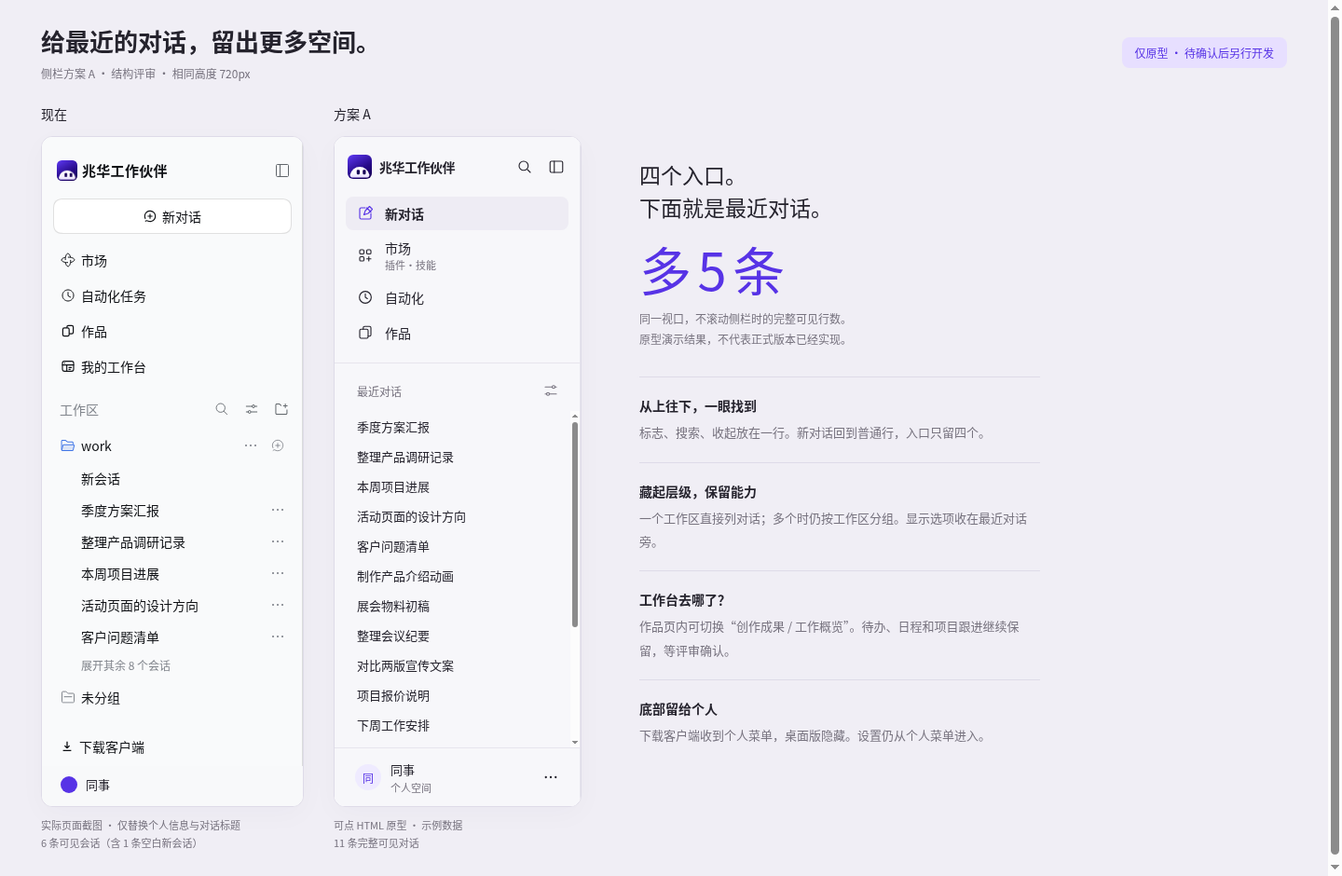
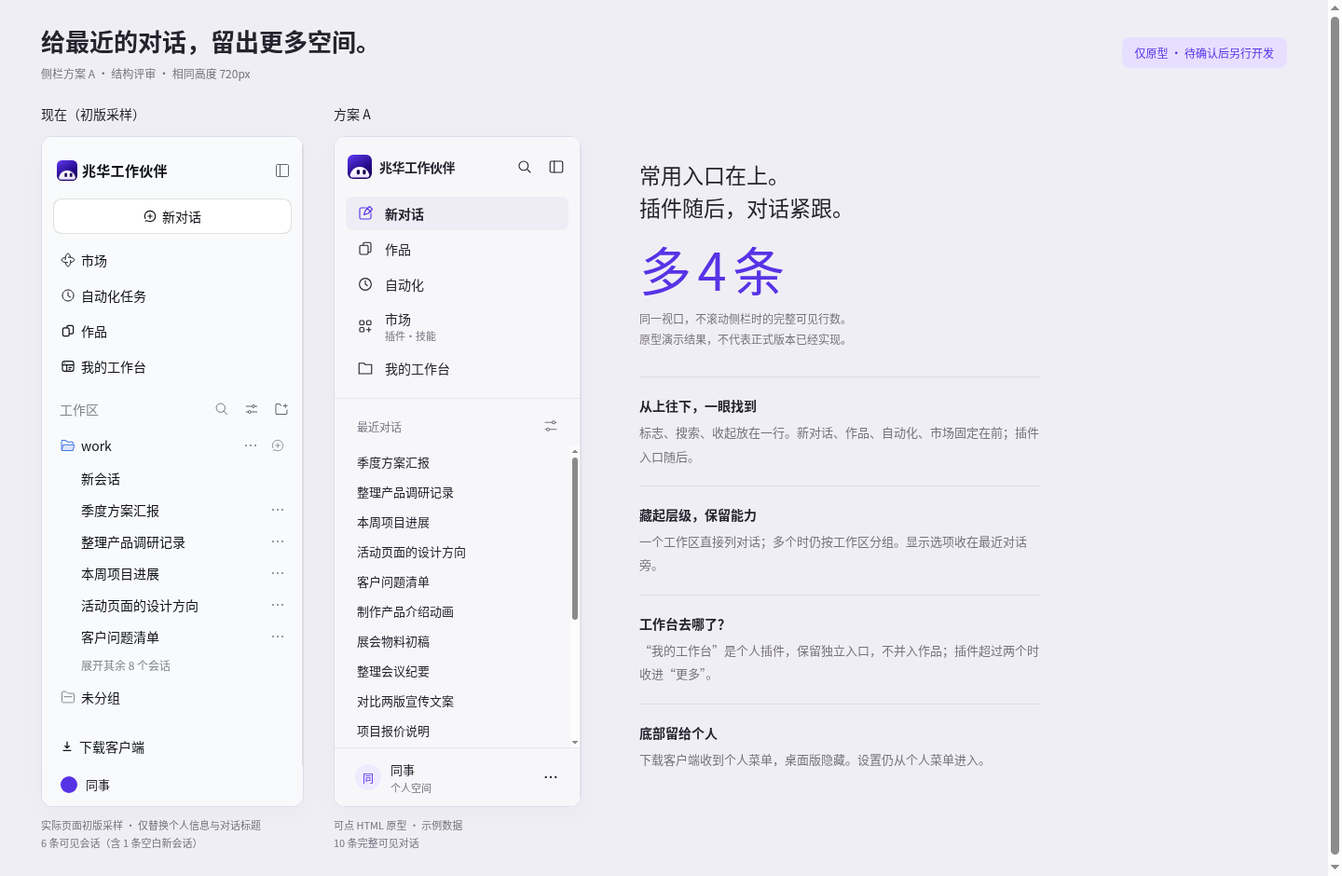
按已定顺序更新侧栏原型并独立展示插件入口

diff --git a/crysound/prototypes/sidebar-a/app.js b/crysound/prototypes/sidebar-a/app.js
@@ -20,11 +20,25 @@
   const hydrate = () => document.querySelectorAll('[data-icon]').forEach(el => { el.innerHTML = icon(el.dataset.icon); });
   const titles = ['季度方案汇报', '整理产品调研记录', '本周项目进展', '活动页面的设计方向', '客户问题清单', '制作产品介绍动画', '展会物料初稿', '整理会议纪要', '对比两版宣传文案', '项目报价说明', '下周工作安排', '产品演示脚本', '设计系统参考', '售后问题整理', '渠道沟通计划', '年度培训大纲', '测试报告摘要', '首页视觉探索'];
   const conversations = titles.map((title, id) => ({ id, title, workspace: id % 3 === 0 ? '产品项目' : '日常工作', archived: id === 17 }));
-  let page = 'new', activeId = null, worksTab = 'artifacts', toastTimer;
+  let page = 'new', activeId = null, toastTimer;
   const query = new URLSearchParams(location.search);
   $('#theme').value = query.get('theme') === 'dark' ? 'dark' : 'light';
   $('#shell').value = query.get('shell') === 'desktop' ? 'desktop' : 'web';
   $('#workspace-mode').value = query.get('workspaces') === 'multi' ? 'multi' : 'single';
+  const plugins = [
+    { id: 'workbench', label: '我的工作台', icon: 'folder' },
+    { id: 'references', label: '资料收藏', icon: 'works' },
+    { id: 'notes', label: '团队笔记', icon: 'new' },
+  ];
+  $('#plugin-count').value = ['0', '1', '2', '3'].includes(query.get('plugins')) ? query.get('plugins') : '1';
+  const installedPlugins = () => plugins.slice(0, Number($('#plugin-count').value));
+  function renderPlugins() {
+    const entries = installedPlugins();
+    const row = p => `<button class="nav-row" data-page="${p.id}" title="${p.label}">${icon(p.icon)}<span>${p.label}</span></button>`;
+    $('#plugin-entries').hidden = entries.length === 0;
+    $('#plugin-entries').innerHTML = entries.length > 2 ? `<button class="nav-row" id="plugins-more" title="更多插件入口" aria-haspopup="dialog">${icon('more')}<span>更多</span></button>` : entries.map(row).join('');
+    $('#plugin-menu').innerHTML = entries.map(row).join('');
+  }
   document.documentElement.dataset.theme = $('#theme').value;
   if (query.has('collapsed') && !matchMedia('(max-width:700px)').matches) document.body.classList.add('collapsed');
   const toast = (text) => { clearTimeout(toastTimer); $('#toast').textContent = text; $('#toast').hidden = false; toastTimer = setTimeout(() => { $('#toast').hidden = true; }, 3200); };
@@ -37,14 +51,16 @@
   function closeDrawer() { document.body.classList.remove('drawer-open'); $('.scrim').hidden = true; $('#sidebar').removeAttribute('role'); $('#sidebar').removeAttribute('aria-modal'); $('#sidebar').inert = matchMedia('(max-width:700px)').matches; }
   function openDrawer() { document.body.classList.remove('collapsed'); document.body.classList.add('drawer-open'); $('.scrim').hidden = false; $('#sidebar').inert = false; $('#sidebar').setAttribute('role', 'dialog'); $('#sidebar').setAttribute('aria-modal', 'true'); $('.search-trigger').focus(); }
   const home = () => `<section class="home"><div class="home-inner"><img class="hero-mark" src="../../brand/zp-mark.svg" alt=""><p class="eyebrow">一起，把想法变成成果</p><h1>今天，我们从哪里开始？</h1><p class="intro">整理思路，推进项目，或做一点新的尝试。</p><form class="composer"><textarea aria-label="和伙伴聊聊" placeholder="和伙伴聊聊你想做的事…"></textarea><div class="composer-footer"><span>＋</span><span>标准模式</span><span>·</span><span>自动审查</span><span>·</span><span>GPT</span><button class="send" aria-label="发送示例消息">${icon('arrow')}</button></div></form><div class="suggestions"><button data-prompt="帮我设计一页产品介绍">${icon('works')}兆华设计</button><button data-prompt="帮我做一段介绍动画">${icon('market')}兆华动画</button><button data-page="market">去市场看看 →</button></div></div></section>`;
-  const works = () => `<section class="content-page"><p class="eyebrow">你的想法，你的成果</p><h1>作品</h1><p class="muted">创作成果与工作进展，在这里接着推进。</p><div class="tabs" role="tablist" aria-label="作品内容"><button role="tab" data-tab="artifacts" aria-selected="${worksTab === 'artifacts'}">创作成果</button><button role="tab" data-tab="overview" aria-selected="${worksTab === 'overview'}">工作概览</button></div><div role="tabpanel" aria-label="${worksTab === 'artifacts' ? '创作成果' : '工作概览'}">${worksTab === 'artifacts' ? `<div class="cards"><article class="card"><div class="art-preview">CRYSOUND</div><h2>产品介绍 · 幻灯片</h2><p>今天更新 · 12 页</p><button data-preview="产品介绍">打开作品 →</button></article><article class="card"><div class="art-preview" style="letter-spacing:8px">◌ ◌ ◌</div><h2>品牌介绍 · 动画</h2><p>昨天更新 · 30 秒</p><button data-preview="品牌介绍">打开作品 →</button></article></div>` : `<p class="muted">来自“我的工作台” · 飞书待办、日程与项目跟进</p><div class="cards"><article class="card"><span class="badge">我的飞书待办</span><h2>还有两件事，接着推进</h2><div class="work-lines">○ 整理产品方案初稿</div><div class="work-lines">○ 确认下周演示安排</div><p>按截止时间排序 · 示例</p></article><article class="card"><span class="badge">本周日程</span><h2>留出时间，专注重要的事</h2><div class="work-lines"><time>周一 10:00</time> 项目进展讨论</div><div class="work-lines"><time>周三 14:00</time> 产品方案评审</div><p>使用个人设置中的时区 · 示例</p></article><article class="card wide-card"><h2>项目跟进</h2><div class="numbers"><div><strong>6</strong><small>跟进中项目</small></div><div><strong>3</strong><small>未来 7 天需跟进</small></div></div><div class="work-lines">产品方案 · 需求确认</div><div class="work-lines">演示安排 · 方案准备</div><p>正式开发保留原工作台的金额、阶段统计和跟进表；这里仅展示合并层级。</p></article></div>`}</div></section>`;
+  const works = () => `<section class="content-page"><p class="eyebrow">你的想法，你的成果</p><h1>作品</h1><p class="muted">找到做过的设计、幻灯片和动画，接着创作。</p><div class="cards"><article class="card"><div class="art-preview">CRYSOUND</div><h2>产品介绍 · 幻灯片</h2><p>今天更新 · 12 页</p><button data-preview="产品介绍">打开作品 →</button></article><article class="card"><div class="art-preview" style="letter-spacing:8px">◌ ◌ ◌</div><h2>品牌介绍 · 动画</h2><p>昨天更新 · 30 秒</p><button data-preview="品牌介绍">打开作品 →</button></article></div></section>`;
+  const pluginPage = p => `<section class="content-page"><p class="eyebrow">已安装的插件</p><h1>${p.label}</h1>${p.id === 'workbench' ? `<p class="muted">个人插件示例 · 待办、日程与项目跟进</p><div class="cards"><article class="card"><span class="badge">我的飞书待办</span><h2>还有两件事，接着推进</h2><p>○ 整理产品方案初稿</p><p>○ 确认下周演示安排</p></article><article class="card"><span class="badge">本周日程</span><h2>留出时间，专注重要的事</h2><p>周一 10:00 · 项目进展讨论</p><p>周三 14:00 · 产品方案评审</p></article><article class="card"><span class="badge">项目跟进</span><h2>六个项目，三件待跟进</h2><p>产品方案 · 需求确认</p><p>演示安排 · 方案准备</p></article></div>` : `<p class="muted">插件面板示例，展示独立入口的打开位置。</p><div class="empty-box">这是“${p.label}”示例。</div>`}</section>`;
   const market = () => `<section class="content-page"><p class="eyebrow">给工作多一点可能</p><h1>市场</h1><p class="muted">找到顺手的插件和技能，交给伙伴一起完成。</p><div class="cards">${['兆华设计', '兆华动画', '兆华幻灯片', '兆华数据'].map((name, i) => `<article class="card"><span class="badge">兆华官方</span><h2>${name}</h2><p>${['把想法变成可用的设计', '让创意动起来', '从内容到完整演示', '查找、整理与分析数据'][i]}</p><button data-prompt="试试${name}">试试看 →</button></article>`).join('')}</div></section>`;
   const automation = () => `<section class="content-page"><p class="eyebrow">让日常工作，按时发生</p><h1>自动化</h1><p class="muted">这里仍然是原来的自动化任务入口。</p><article class="card"><span class="badge">已开启 · 示例</span><h2>每周项目摘要</h2><p>每周一 09:00 · 使用个人设置中的时区</p><button data-preview="每周项目摘要">查看任务 →</button></article></section>`;
   function navigate(next) {
     const fromDrawer = document.body.classList.contains('drawer-open');
-    page = next; $('#page-label').textContent = { new: '新对话', market: '市场', automation: '自动化', works: '作品', conversation: conversations[activeId]?.title }[page];
-    $('#page-content').innerHTML = page === 'new' ? home() : page === 'works' ? works() : page === 'market' ? market() : page === 'automation' ? automation() : `<section class="content-page"><p class="eyebrow">接着上次的想法</p><h1>${conversations[activeId].title}</h1><div class="empty-box">这是示例对话。正式开发将打开原会话，保留全部历史记录。</div></section>`;
+    page = next; const plugin = installedPlugins().find(p => p.id === page); $('#page-label').textContent = { new: '新对话', market: '市场', automation: '自动化', works: '作品', conversation: conversations[activeId]?.title }[page] ?? plugin?.label;
+    $('#page-content').innerHTML = page === 'new' ? home() : page === 'works' ? works() : page === 'market' ? market() : page === 'automation' ? automation() : plugin ? pluginPage(plugin) : `<section class="content-page"><p class="eyebrow">接着上次的想法</p><h1>${conversations[activeId].title}</h1><div class="empty-box">这是示例对话。正式开发将打开原会话，保留全部历史记录。</div></section>`;
     document.querySelectorAll('nav [data-page]').forEach(el => { const selected = el.dataset.page === page; el.classList.toggle('active', selected); if (selected) el.setAttribute('aria-current', 'page'); else el.removeAttribute('aria-current'); });
+    $('#plugins-more')?.classList.toggle('active', !!plugin);
     closeDrawer(); hydrate(); renderConversations();
     if (fromDrawer) { $('#page-label').tabIndex = -1; $('#page-label').focus(); }
   }
@@ -58,10 +74,9 @@
   document.addEventListener('click', event => {
     const target = event.target.closest('button');
     if (!target) return;
-    if (target.dataset.page) { if (target.dataset.page === 'new') activeId = null; navigate(target.dataset.page); }
+    if (target.dataset.page) { if ($('#plugins-dialog').open) $('#plugins-dialog').close(); if (target.dataset.page === 'new') activeId = null; navigate(target.dataset.page); }
     else if (target.dataset.conversation !== undefined) { activeId = Number(target.dataset.conversation); if ($('#search-dialog').open) $('#search-dialog').close(); navigate('conversation'); }
     else if (target.dataset.more !== undefined) toast('正式开发保留原会话菜单：重命名、置顶、归档与分组。');
-    else if (target.dataset.tab) { worksTab = target.dataset.tab; navigate('works'); $(`[data-tab="${worksTab}"]`).focus(); }
     else if (target.dataset.prompt) { navigate('new'); $('.composer textarea').value = target.dataset.prompt; $('.composer textarea').focus(); }
     else if (target.dataset.preview) toast(`“${target.dataset.preview}”为示例，原型不打开真实内容。`);
     else if (target.matches('.search-trigger')) openSearch();
@@ -70,6 +85,7 @@
     else if (target.matches('.scrim')) { closeDrawer(); $('#mobile-open').focus(); }
     else if (target.id === 'account-trigger') { const menu = $('.account-menu'); menu.hidden = !menu.hidden; target.setAttribute('aria-expanded', String(!menu.hidden)); if (!menu.hidden) menu.querySelector('button').focus(); }
     else if (target.id === 'review-options') $('#options-dialog').showModal();
+    else if (target.id === 'plugins-more') $('#plugins-dialog').showModal();
     else if (target.id === 'view-options') $('#list-dialog').showModal();
     else if (target.matches('.dialog-close')) target.closest('dialog').close();
     else if (target.id === 'download') toast('正式版将打开客户端下载页；本原型不发起下载。');
@@ -90,10 +106,11 @@
   $('#search-input').addEventListener('input', renderSearch);
   $('#theme').addEventListener('change', () => { document.documentElement.dataset.theme = $('#theme').value; });
   $('#shell').addEventListener('change', updateShell);
+  $('#plugin-count').addEventListener('change', () => { renderPlugins(); navigate(installedPlugins().some(p => p.id === page) || !plugins.some(p => p.id === page) ? page : 'new'); });
   $('#workspace-mode').addEventListener('change', renderConversations);
   for (const id of ['sort', 'archive']) $(`#${id}`).addEventListener('change', renderConversations);
   const mobile = matchMedia('(max-width:700px)');
   mobile.addEventListener('change', () => { closeDrawer(); document.body.classList.remove('collapsed'); $('.collapse-trigger').setAttribute('aria-label', '收起侧栏'); });
   if (query.get('page') === 'works') page = 'works';
-  navigate(page); updateShell();
+  renderPlugins(); navigate(page); updateShell();
 })();

diff --git a/crysound/prototypes/sidebar-a/index.html b/crysound/prototypes/sidebar-a/index.html
@@ -8,9 +8,10 @@
     <header class="brand-row"><img src="../../brand/zp-mark-32.svg" alt="兆华工作伙伴" width="26" height="26"><span class="brand-name">兆华工作伙伴</span><button class="icon-button search-trigger" aria-label="搜索对话" title="搜索对话"><i data-icon="search"></i></button><button class="icon-button collapse-trigger" aria-label="收起侧栏" title="收起侧栏"><i data-icon="panel"></i></button></header>
     <nav aria-label="主要入口">
       <button class="nav-row" data-page="new" title="新对话"><i data-icon="new" class="brand-color"></i><span>新对话</span></button>
-      <button class="nav-row market" data-page="market" title="市场"><i data-icon="market"></i><span>市场<small>插件·技能</small></span></button>
-      <button class="nav-row" data-page="automation" title="自动化"><i data-icon="clock"></i><span>自动化</span></button>
       <button class="nav-row" data-page="works" title="作品"><i data-icon="works"></i><span>作品</span></button>
+      <button class="nav-row" data-page="automation" title="自动化"><i data-icon="clock"></i><span>自动化</span></button>
+      <button class="nav-row market" data-page="market" title="市场"><i data-icon="market"></i><span>市场<small>插件·技能</small></span></button>
+      <div id="plugin-entries"></div>
     </nav>
     <section class="recent"><div class="section-heading"><span>最近对话</span><button class="icon-button" id="view-options" aria-label="对话显示选项" title="对话显示选项"><i data-icon="filter"></i></button></div><div id="conversation-list"></div><p class="list-empty" hidden>还没有匹配的对话</p></section>
     <footer class="account-area"><button class="account" id="account-trigger" aria-expanded="false" aria-haspopup="menu" title="个人菜单"><span class="avatar">同</span><span class="account-copy">同事<small>个人空间</small></span><i data-icon="more"></i></button><div class="account-menu popup" role="menu" hidden><button role="menuitem" id="settings"><i data-icon="settings"></i>设置</button><button role="menuitem" id="download"><i data-icon="download"></i>下载客户端</button></div></footer>
@@ -18,8 +19,9 @@
   <main id="main"><header class="main-header"><button id="mobile-open" class="icon-button" aria-label="打开导航"><i data-icon="panel"></i></button><span id="page-label">新对话</span><span class="review-label">方案 A · 示例数据</span></header><div id="page-content"></div><footer class="review-footer"><span>CRYSOUND WORKPARTNER</span><button id="review-options">查看方式 <i data-icon="settings"></i></button></footer></main>
 </div>
 <dialog id="search-dialog" aria-labelledby="search-title"><div class="dialog-heading"><h2 id="search-title">搜索对话</h2><button class="icon-button dialog-close" aria-label="关闭搜索"><i data-icon="close"></i></button></div><div class="search-field"><i data-icon="search"></i><input id="search-input" type="search" placeholder="搜索对话名称" autocomplete="off" aria-label="搜索对话名称"><kbd>Esc</kbd></div><div id="search-results"></div><p class="dialog-note">搜索当前所有工作区中的示例对话</p></dialog>
-<dialog id="options-dialog" aria-labelledby="options-title"><div class="dialog-heading"><h2 id="options-title">查看方式</h2><button class="icon-button dialog-close" aria-label="关闭查看方式"><i data-icon="close"></i></button></div><p class="muted">切换原型的外观和使用场景。</p><label class="option-row">外观<select id="theme"><option value="light">浅色</option><option value="dark">深色</option></select></label><label class="option-row">运行方式<select id="shell"><option value="web">网页版</option><option value="desktop">桌面版</option></select></label><label class="option-row">工作区<select id="workspace-mode"><option value="single">只有一个</option><option value="multi">有多个</option></select></label><p class="dialog-note">此处仅切换示例，不会读取或修改任何真实数据。</p></dialog>
+<dialog id="options-dialog" aria-labelledby="options-title"><div class="dialog-heading"><h2 id="options-title">查看方式</h2><button class="icon-button dialog-close" aria-label="关闭查看方式"><i data-icon="close"></i></button></div><p class="muted">切换原型的外观和使用场景。</p><label class="option-row">外观<select id="theme"><option value="light">浅色</option><option value="dark">深色</option></select></label><label class="option-row">运行方式<select id="shell"><option value="web">网页版</option><option value="desktop">桌面版</option></select></label><label class="option-row">工作区<select id="workspace-mode"><option value="single">只有一个</option><option value="multi">有多个</option></select></label><label class="option-row">插件入口<select id="plugin-count"><option value="0">没有额外入口</option><option value="1" selected>1 个 · 个人插件示例</option><option value="2">2 个 · 直接展示</option><option value="3">3 个 · 收进更多</option></select></label><p class="dialog-note">此处仅切换示例，不会读取或修改任何真实数据。</p></dialog>
 <dialog id="list-dialog" aria-labelledby="list-title"><div class="dialog-heading"><h2 id="list-title">对话显示选项</h2><button class="icon-button dialog-close" aria-label="关闭对话选项"><i data-icon="close"></i></button></div><label class="option-row">排序<select id="sort"><option value="recent">最近更新</option><option value="title">名称</option></select></label><label class="option-row">已归档<select id="archive"><option value="hide">隐藏</option><option value="show">显示</option></select></label><p class="dialog-note">正式开发保留会话菜单、分组和工作区管理；这里只演示入口位置。</p></dialog>
+<dialog id="plugins-dialog" aria-labelledby="plugins-title"><div class="dialog-heading"><h2 id="plugins-title">插件入口</h2><button class="icon-button dialog-close" aria-label="关闭插件入口"><i data-icon="close"></i></button></div><p class="muted">按安装先后排列</p><div id="plugin-menu" class="plugin-menu"></div></dialog>
 <div id="toast" role="status" hidden></div>
 <script src="./app.js"></script>
 </body></html>

diff --git a/crysound/prototypes/sidebar-a/compare.html b/crysound/prototypes/sidebar-a/compare.html
@@ -1,5 +1,5 @@
 <!doctype html><html lang="zh-CN"><head><meta charset="utf-8"><meta name="viewport" content="width=device-width,initial-scale=1"><title>现在与方案 A</title><style>
 *{box-sizing:border-box}body{margin:0;background:#f0eef5;color:#25232d;font-family:"Noto Sans CJK SC",sans-serif}header{height:112px;padding:28px 44px;display:flex;justify-content:space-between;align-items:center}h1{font-size:26px;margin:0;font-weight:550}header p{font-size:12px;color:#77737f;margin:8px 0 0}.tag{font-size:12px;color:#5733e6;background:#e7dfff;padding:8px 14px;border-radius:8px}main{display:flex;gap:32px;padding:0 44px 32px;align-items:flex-start}section{flex:none}h2{font-size:14px;font-weight:500;height:34px;margin:0}section p{margin:0 0 8px;font-size:12px;color:#77737f}.frame{height:720px;overflow:hidden;border:1px solid #dedbe8;border-radius:12px;background:white;box-shadow:0 8px 30px #17005707}.before{width:282px}.before img{width:280px;height:720px}.after{width:266px}.after iframe{border:0;width:1440px;height:720px;max-width:none;display:block}.notes{padding:58px 0 0 30px;flex:1;min-width:0}.notes h2{font-size:23px;height:auto;line-height:1.5;margin-bottom:18px}.number{font-size:56px;color:#5733e6;letter-spacing:-3px;line-height:1.1}.notes .muted{font-size:12px;color:#77737f;line-height:1.9;margin:12px 0 28px}.note{border-top:1px solid #dedbe8;padding:20px 0;max-width:430px}.note strong{font-size:14px;font-weight:550;display:block;margin-bottom:5px}.note span{font-size:13px;color:#77737f;line-height:1.8}.caption{font-size:11px;color:#77737f;margin-top:10px;max-width:280px;line-height:1.7}
-</style></head><body><header><div><h1>给最近的对话，留出更多空间。</h1><p>侧栏方案 A · 结构评审 · 相同高度 720px</p></div><span class="tag">仅原型 · 待确认后另行开发</span></header><main><section><h2>现在</h2><div class="frame before"><img src="./screenshots/current-sidebar.png" alt="当前实际侧栏，姓名、头像与对话标题已替换为示例"></div><div class="caption">实际页面截图 · 仅替换个人信息与对话标题<br>6 条可见会话（含 1 条空白新会话）</div></section><section><h2>方案 A</h2><div class="frame after"><iframe src="./index.html" title="方案 A 可点侧栏"></iframe></div><div class="caption">可点 HTML 原型 · 示例数据<br><span id="count">正在计算可见会话…</span></div></section><article class="notes"><h2>四个入口。<br>下面就是最近对话。</h2><div class="number" id="gain">—</div><p class="muted">同一视口，不滚动侧栏时的完整可见行数。<br>原型演示结果，不代表正式版本已经实现。</p><div class="note"><strong>从上往下，一眼找到</strong><span>标志、搜索、收起放在一行。新对话回到普通行，入口只留四个。</span></div><div class="note"><strong>藏起层级，保留能力</strong><span>一个工作区直接列对话；多个时仍按工作区分组。显示选项收在最近对话旁。</span></div><div class="note"><strong>工作台去哪了？</strong><span>作品页内可切换“创作成果 / 工作概览”。待办、日程和项目跟进继续保留，等评审确认。</span></div><div class="note"><strong>底部留给个人</strong><span>下载客户端收到个人菜单，桌面版隐藏。设置仍从个人菜单进入。</span></div></article></main><script>
+</style></head><body><header><div><h1>给最近的对话，留出更多空间。</h1><p>侧栏方案 A · 结构评审 · 相同高度 720px</p></div><span class="tag">仅原型 · 待确认后另行开发</span></header><main><section><h2>现在（初版采样）</h2><div class="frame before"><img src="./screenshots/current-sidebar.png" alt="当前实际侧栏，姓名、头像与对话标题已替换为示例"></div><div class="caption">实际页面初版采样 · 仅替换个人信息与对话标题<br>6 条可见会话（含 1 条空白新会话）</div></section><section><h2>方案 A</h2><div class="frame after"><iframe src="./index.html" title="方案 A 可点侧栏"></iframe></div><div class="caption">可点 HTML 原型 · 示例数据<br><span id="count">正在计算可见会话…</span></div></section><article class="notes"><h2>常用入口在上。<br>插件随后，对话紧跟。</h2><div class="number" id="gain">—</div><p class="muted">同一视口，不滚动侧栏时的完整可见行数。<br>原型演示结果，不代表正式版本已经实现。</p><div class="note"><strong>从上往下，一眼找到</strong><span>标志、搜索、收起放在一行。新对话、作品、自动化、市场固定在前；插件入口随后。</span></div><div class="note"><strong>藏起层级，保留能力</strong><span>一个工作区直接列对话；多个时仍按工作区分组。显示选项收在最近对话旁。</span></div><div class="note"><strong>工作台去哪了？</strong><span>“我的工作台”是个人插件，保留独立入口，不并入作品；插件超过两个时收进“更多”。</span></div><div class="note"><strong>底部留给个人</strong><span>下载客户端收到个人菜单，桌面版隐藏。设置仍从个人菜单进入。</span></div></article></main><script>
 const frame=document.querySelector('iframe');frame.addEventListener('load',()=>{const doc=frame.contentDocument,box=doc.querySelector('#conversation-list').getBoundingClientRect();const n=[...doc.querySelectorAll('.conversation-row')].filter(el=>{const r=el.getBoundingClientRect();return r.top>=box.top&&r.bottom<=box.bottom}).length;document.querySelector('#count').textContent=n+' 条完整可见对话';document.querySelector('#gain').textContent='多 '+(n-6)+' 条';});
 </script></body></html>

diff --git a/crysound/prototypes/sidebar-a/style.css b/crysound/prototypes/sidebar-a/style.css
@@ -122,6 +122,14 @@ nav {
   gap:2px;
   border-bottom:1px solid var(--line);
 }
+#plugin-entries {
+  display:grid;
+  gap:2px;
+}
+.plugin-menu {
+  display:grid;
+  gap:6px;
+}
 .nav-row {
   width:100%;
   height:36px;
@@ -432,23 +440,8 @@ p {
 .content-page h1 {
   font-size:28px;
 }
-.tabs {
-  display:flex;
-  gap:6px;
-  margin:28px 0 24px;
-  border-bottom:1px solid var(--line);
-  padding-bottom:10px;
-}
-.tabs button {
-  padding:8px 16px;
-  font-size:13px;
-  border-radius:8px;
-}
-.tabs button[aria-selected=true] {
-  background:var(--soft);
-  color:var(--accent);
-}
 .cards {
+  margin-top:28px;
   display:grid;
   grid-template-columns:repeat(2,minmax(0,1fr));
   gap:16px;
@@ -497,38 +490,6 @@ p {
   padding:4px 8px;
   display:inline-block;
   margin-bottom:14px;
-}
-.work-lines {
-  padding:12px 0;
-  border-bottom:1px solid var(--line);
-  font-size:13px;
-  display:flex;
-  gap:10px;
-  line-height:1.6;
-}
-.work-lines:last-child {
-  border:0;
-}
-.work-lines time {
-  color:var(--muted);
-  font-size:12px;
-  flex:none;
-}
-.wide-card {
-  grid-column:1/-1;
-}
-.numbers {
-  display:flex;
-  gap:60px;
-  margin:20px 0;
-}
-.numbers strong {
-  font-size:28px;
-  font-weight:500;
-  display:block;
-}
-.numbers small {
-  font-size:12px;
 }
 .empty-box {
   padding:60px 24px;
@@ -661,6 +622,9 @@ body.collapsed .brand-row .search-trigger {
   margin:0;
   order:2;
 }
+body.collapsed #plugin-entries {
+  gap:6px;
+}
 body.collapsed nav {
   padding:0 8px;
   border:0;
@@ -759,17 +723,8 @@ body.collapsed .account-menu {
   .cards {
     grid-template-columns:1fr;
   }
-  .wide-card {
-    grid-column:auto;
-  }
   .content-page h1 {
     font-size:25px;
-  }
-  .tabs {
-    gap:0;
-  }
-  .tabs button {
-    padding:8px 12px;
   }
   body.collapsed aside {
     width:280px;
@@ -783,9 +738,6 @@ body.collapsed .account-menu {
   }
   body.collapsed .nav-row {
     width:100%;
-  }
-  .numbers {
-    gap:30px;
   }
 }
 @media(prefers-reduced-motion:reduce) {

diff --git a/crysound/prototypes/sidebar-a/feasibility.md b/crysound/prototypes/sidebar-a/feasibility.md
@@ -2,39 +2,49 @@
 
 ## 核实范围与结论
 
-本说明依据本轮实际网页版、浏览器已加载的插件代码、主仓库侧栏与工作区源码、品牌注入和现有发布脚本。基线为 `7b8533b3fc`。所有修改建议均为后续开发方案，本次没有实施这些修改。
+本说明依据前轮实际网页版及其已加载模块、本轮对主仓库侧栏、插槽、工作区、插件清单类型和品牌补丁的源码复核。原型初版基线为 `7b8533b3fc`；本轮在原草稿分支继续修改。已定顺序见需求 #127 最新评论（11-07）：新对话 → 作品 → 自动化 → 市场 → 插件入口 → 最近对话。所有实现建议均为后续开发方案，本次只改静态评审材料。
 
-方案 A 可以实现，单靠品牌 CSS 不够：布局与颜色适合放品牌层，搜索命令、按工作区数量选择列表、更多会话展示和插件页面合并需要组件或插件改动。优先利用既有插槽和服务；确需改变 dsh 组件的地方做小范围、可核对的包补丁或源码修改。不要通过搬运 React 管理的 DOM、伪造点击、长期依赖散列类名来替代组件逻辑。
+方案 A 可以实现，单靠品牌 CSS 不够：布局与颜色适合放品牌层，搜索命令、按工作区数量选择列表、更多会话展示、固定入口排序与插件入口折叠需要组件改动。优先利用既有插槽和服务；确需改变 dsh 组件的地方做小范围、可核对的包补丁或源码修改。不要通过搬运 React 管理的 DOM、伪造点击、长期依赖散列类名来替代组件逻辑。
 
-## “我的工作台”到底是什么
+## “我的工作台”是个人插件，不并入作品
 
-实际浏览器加载模块 `@local/my-workbench`，不是飞书机器人插件、dsh 内置工作区，也不是兆华作品插件。客户端代码以 `my-workbench` 注册 `main` 页面和 `sidebar.panellist` 入口（`order: 25`）。观察到三类读接口：`/api/my-workbench/tasks`、`agenda`、`projects`，页面每 5 分钟刷新，并有手动刷新及分区失败重试。
+前轮实际浏览器加载模块 `@local/my-workbench`，以 `my-workbench` 注册 `main` 页面和 `sidebar.panellist` 入口（`order: 25`），展示本人飞书待办、日程、项目统计与跟进。本轮伙伴助理及需求单评论已明确：这是负责人自己安装的个人插件，同事没有。
 
-页面实际包括：飞书未完成待办（截止时间、逾期提示）、今天到周日的日程、项目数与金额合计、阶段统计、未来 7 天跟进表。当前该模块客户端把日程时区写为东京时间，不能因为导航合并而悄悄改掉。工作台源码不在本轮主仓库检出内；仅凭此账号页面和加载模块，不能认定它已向全员预装或已支持桌面版。
+因此保留它独立的插件入口，不并入作品，也不放个人菜单；原型只用虚构待办、日程和项目卡片示例。作品页仅保留创作成果，去掉“工作概览”页签。未安装个人插件的人不会凭空多一个入口，也不额外预装。工作台桌面数据服务与后端不在本单范围，无需将其列为正式侧栏开发的前置条件。
 
-“作品”当前由加载中的 `dsh-claude-artifacts` 插件提供，页面有幻灯片、设计、看板、设计系统、动画类别与已有作品。插件使用 `joinArtifactsPage` 协调作品页所有者，不能再随意注册一个同名页面覆盖它。公司正在使用的官方 `@crysound/artifacts` 对应关系见 `crysound/config/plugins.json`；正式开发必须核对目标账号实际安装版本，不能只补旧包名。
+“作品”前轮来自加载中的 `dsh-claude-artifacts`，用 `joinArtifactsPage` 协调所有者；当前公司对应包为 `@crysound/artifacts`（见 `crysound/config/plugins.json`）。正式版只重排其入口，不覆盖页面或修改作品数据。市场、自动化和作品在有对应注册入口时按公司固定顺序显示；缺失或停用时不能伪造坏入口，须提示可恢复的安装或启用路径。
 
-建议按已选方案 A 合并**导航**：侧栏仅“作品”，里面分“创作成果”（默认，保留原作品页分类、新建、打开和编辑）与“工作概览”（承载原工作台待办、日程、统计及跟进表）。两者数据保持分离；不把待办或日程转换成作品，不迁移、删除个人数据，不新增权限。未安装工作台模块的人只看到创作成果，不额外预装插件、也不出现坏入口。原型中用虚构卡片说明层级，金额表等未逐项重画，正式开发必须完整保留。
+## dsh 入口顺序由什么决定，公司如何控制
 
-语义代价是“作品”不直观地暗示日程和待办，建议负责人重点实点第二个页签。若评审认为不合适，替代方案是在个人菜单保留独立“工作概览”，保持侧栏四入口；不要自行把侧栏扩成五个入口。本轮不据此改变产品方向。
+| 层次 | 已核实的源码行为 | 对正式实现的含义 |
+| --- | --- | --- |
+| 插槽注册 | [`ui-slots/src/index.ts`](../../../packages/client/ui-slots/src/index.ts) 的注册账本先按 `priority`、再按 `order` 升序，同值保持注册先后；`entriesOfSlot` 按入口 id 选择有效注册。 | 注册顺序只是相同排序值的后备规则。注册先后受加载和重启影响，不等于安装先后。 |
+| 侧栏元数据 | [`ui-sidebar/src/client/index.ts`](../../../packages/client/ui-sidebar/src/client/index.ts) 的 `syncPanels` 读取 `sidebar.panellist` 的 id、label、`order ?? 0`，再按 `order` 升序。市场 `plugins` 注册为 0（`ui-plugin-manager`），自动化 `schedules` 为 10（`ui-schedule`）；个人工作台前轮加载模块为 25。 | 全局主排序键是 `order`，相同值保留输入账本顺序。仅凭注册先后不能得到已定顺序；插件的负 `order` 也能插到固定入口前。 |
+| React 渲染 | [`SidebarRoot.tsx`](../../../packages/client/ui-sidebar/src/client/SidebarRoot.tsx) 的新对话单独渲染在面板列表之前；面板按排序结果过滤未固定项后 `map`；市场由 [`panel-pins.ts`](../../../packages/client/ui-sidebar/src/client/panel-pins.ts) 固定。 | DOM 顺序是状态的结果。CSS `order` 不能同步键盘与读屏顺序，也不能实现数量门槛；不要搬动 React 的 DOM。 |
+| 现有“更多” | `PanelMoreMenu` 依赖 `sidebar.panellist.actions` 是否注册，并由手动固定状态决定展示。公司 [`patch-market-entry.mjs`](../../scripts/patch-market-entry.mjs) 已把原生创建插件入口迁到市场。 | 它不按插件数量自动折叠。新“更多”只放额外插件面板，不恢复市场 / 创建插件的重复入口。 |
+| 安装先后 | [`PluginInventoryEntry`](../../../packages/host/plugin-inventory/src/types.ts) 当前公开 entryId、moduleName、enabled、运行状态等，不含安装时间或安装序号；侧栏元数据也不含入口所属插件或安装时间。 | 不能把 `order`、文件修改时间、当前 DOM 或运行时首次出现顺序冒充安装历史。 |
 
-工作台桌面后端和插件分发方式是正式开发前置核对项：先由伙伴助理定位现有模块来源与桌面数据通路，再决定抽出可复用面板或包装现有组件。尚无依据保证该工作台内容在桌面同样可用；本轮未请求登录、凭据或接管服务器。
+公司可以稳定控制，但需要在侧栏元数据到展示列表之间增加明确的公司排序策略。新对话维持原命令；从有效面板中用稳定 id 识别作品、自动化、市场，按已定顺序输出，再追加其他插件面板。对额外面板忽略其跨分区的 `order`，新插件无论声明什么 `order`，均落在市场之后、最近对话之前。0 个不显示空占位，1–2 个直接展示，3 个及以上把全部额外入口收进“更多”；展开后仍按安装先后，点击保留原 `selectPanel` 和活动状态。一个插件多个入口时先按其安装序号、再按该插件内的 `order` / 注册顺序排列。
+
+安装顺序需由插件安装层提供可持久化且跨重启稳定的序号，以及面板所属插件映射。更新、暂时停用再启用不改变原序号，卸载后重装分配新序号。既有插件若没有历史记录，无法还原真实安装时间；正式开发要核对现有配置是否保有可靠顺序，只有可证实的记录才可回填。若需新增持久结构，应先经分诊评审结构和旧安装处理办法，再开发；本原型用固定的示例安装序列演示，不创建或迁移用户记录。
+
+排序策略放共享侧栏组件或版本匹配的公司包补丁，两端使用同一实现，不要求修改所有第三方插件的注册值。正式版还需对目标发布包和已安装官方作品版本复核稳定 id；单改公司 CSS 或调换插件加载顺序不足以保证长期稳定。
 
 ## 每项怎么做
 
-下表改动量为阅读源码后的估计，不是已完成的变更统计。文件数与行数互相重叠，主要用于区分纯样式与组件改造的成本；不含新增桌面数据服务、上游升级冲突或打包发布。
+下表改动量为阅读源码后的估计，不是已完成的变更统计。文件数与行数互相重叠，主要用于区分纯样式与组件改造的成本；不含安装历史回填、上游升级冲突或打包发布。
 
 | 项目 | 实现位置与方法 | 预估改动量 | 桌面版与功能影响 |
 | --- | --- | --- | --- |
 | 顶部 logo / 搜索 / 收起 | `crysound/brand` 复用现有标志；`ui-sidebar/SidebarRoot.tsx` 增加搜索按钮，调用 `ui-workspace` 已注册的 `session.search` 命令。现有搜索状态由 `ui-workspace/shortcuts.ts` 与 `WorkspaceBrowser.tsx` 持有，正式版保留内容搜索、请求中状态、分页、归档结果及打开结果后的定位。 | 中：2–3 文件，约 50–100 行逻辑及样式 | 同一 React 客户端适用两端；不能直接给工作区内部搜索输入框改位置。保留快捷键、收起状态和移动抽屉。macOS 顶部拖动区 / 红绿灯、Windows 菜单区需单独验证。 |
-| 四入口、新对话普通行 | 品牌 CSS 调整外观；`ui-sidebar` 中新建按钮与 `sidebar.panellist` 保持原命令和权限判断。顺序依注册元数据调整，自动化继续使用 `schedules` 面板（`ui-schedule`），仅改变显示名。“市场”固定入口来自 `panel-pins.ts` 的 `plugins`。给市场补副文案需加可选元数据 / 品牌组件，当前 `PanelRow` 只有一个 label，CSS 伪元素只适合无障碍文案同时处理的短期补丁。 | 小至中：2–3 文件，约 50–100 行 | 两端共用。不能把全部其他插件入口一概隐藏：正式方案需保留市场或个人菜单中的已安装面板入口，以及未安装相应插件时的表现；保留 `canStartSession` 和原 `selectPanel`。 |
-| 作品内工作概览 | 作品插件页壳增加可选页签；工作台抽出可挂载组件或提供正式插槽，再移除重复的顶层导航注册。保留作品协调所有者，工作台缺席时不显示其页签。不能只改两个按钮的显示文字。 | 中至大：预计两个插件模块，3–5 文件，约 150–300 行；来源定位与桌面 API 未知，不包含在估计内 | 只有共用组件且两端有同等服务时才能一起生效。导航合并不改变待办 / 日程 / 项目的数据结构、授权、刷新、金额统计、错误恢复或时区语义。插件仓库变更须另单授权安排。 |
+| 固定顺序、新对话普通行 | 品牌 CSS 调整外观；`ui-sidebar` 为有效入口增加公司固定 id 顺序，保留原命令、`canStartSession` 与 `selectPanel`。自动化仍用 `schedules`；“市场”仍用 `plugins`。市场副文案需加可选元数据 / 品牌组件，不能只用 CSS 伪元素忽略读屏文字。 | 中：2–3 文件，约 70–130 行 | 两端共用。新增插件的 `order` 不得打乱公司固定分区；桌面和网页保持键盘、读屏与视觉顺序一致。 |
+| 插件入口 / 超过 2 个收更多 | 侧栏分离固定与额外面板；0–2 个直接映射，超过 2 个全收新“更多”，复用原面板打开与活动状态。安装层提供持久安装序号及面板归属，不把加载顺序当安装顺序；工作台只作为其中一项。 | 中：侧栏约 2–3 文件、100–180 行；安装元数据来源核实与必要结构变更另计 | 两端共用；保留面板生命周期、停用、卸载和缺失状态。新增持久结构须另经评审。没有安装个人插件的同事不出现工作台。 |
 | 单工作区平铺 / 多工作区分组 | `ui-workspace` 原本就支持 `flat`、`workspace`、`workspace-tree`。显示层按可见工作区数量选有效视图；单个时包括它的会话和真实未分配会话但不显示“work / 未分组”空壳；多个时保留归属、展开、排序与管理入口，不改变 `session.workspaceId`。沿用 `tree.ts`、`navigation.ts` 的会话身份及菜单回调。 | 中：2–3 文件，约 80–160 行 | 两端共用。桌面常有多个项目，不能永远强制平铺。原有分组 / 子工作区 / 手动排序保留于显示选项，用户有自定义分组时仍能访问。新增 / 重命名工作区入口收在显示选项中，不删除目录选择能力。 |
-| 下载进个人菜单 | 移除 `brand.js` 当前在账号上方注入的 `.zp-download` 独立行，改到个人菜单；继续用现有下载路由与 `location.protocol === 'dsh-app:'` 判断桌面。可通过 `settings.launcher` 品牌组件复用原设置开启回调；若沿用原账号菜单，要在其所有者加入口，不能把链接塞进已经渲染的 React 子树。 | 小：1–2 文件，约 30–70 行 | 网页保留下载；桌面不显示。保留设置、账号身份及现有飞书相关入口；网关下载功能和权限不变。 |
+| 下载进个人菜单（已另单安排） | 本原型按移入后的样子展示。独立需求负责把 `brand.js` 的 `.zp-download` 独立行改到个人菜单；继续用现有下载路由与 `location.protocol === 'dsh-app:'` 判断桌面。可通过 `settings.launcher` 品牌组件复用原设置开启回调；若沿用原账号菜单，要在其所有者加入口，不能把链接塞进已经渲染的 React 子树。 | 小：1–2 文件，约 30–70 行 | 网页保留下载；桌面不显示。保留设置、账号身份及现有飞书相关入口；网关下载功能和权限不变。 |
 | 紧凑行高 / 多约 5 条 | 品牌样式调整导航和会话行高（本原型 32px 会话行）。`WorkspaceBrowser.tsx` 当前 `SESSION_WATERMARK_BASE = 5`，另保留空白新会话；必须同时调整默认展示量 / 滚动列表，否则缩行高仍只能看到 5 条非空会话。保留忙碌、等待、当前会话自动展开、展示更多与搜索定位。 | 小至中：1–2 文件，约 30–70 行 | 两端共用。高度、缩放、长标题、字体不同会影响可见数；手机需保留足够点击面积。已有置顶、运行状态、未读标记、重命名、归档、分组和右键菜单不可因压缩消失。 |
 | 深浅色、窄屏与收起 | 颜色使用主题变量，logo 用 `crysound/brand` 原图；无单侧竖色条。复用侧栏展开 / 收起、drawer 和焦点机制，不新增一套独立响应式状态。 | 小：与上述样式共用 | 桌面需验证 titlebar；网页手机验证焦点、遮罩、触屏、输入法和滚动。原型使用自己的状态演示效果，不能直接替换产品状态管理。 |
 
-除工作台后端缺口外，主壳与工作区合计预计涉及约 8–12 个文件、300–600 行逻辑 / 样式及相应行为检查。两插件的合并工作另计。正式开发前以目标运行时和真实插件版本再拆任务、收窄估计。
+主壳与工作区合计预计涉及约 9–13 个文件、400–750 行逻辑 / 样式及相应行为检查；安装顺序来源与必要的持久结构变更另计。无需合并作品和个人工作台插件。正式开发前以目标运行时和真实插件版本再拆任务、收窄估计。
 
 ## 发布与跨端注意
 
@@ -48,7 +58,7 @@
 
 1. 单工作区（包括真实无归属会话）、多个工作区、自定义分组 / 子工作区、从多个变回一个，均找得到原会话，目录与归属不变。
 2. 会话重命名、置顶、归档 / 还原、拖动、运行 / 等待 / 未读状态、内容搜索和搜索定位仍然有效；没有创建权限时不显示新建操作。
-3. 市场 / 自动化 / 作品原功能可达；额外安装的插件不被一刀切屏蔽；工作台缺席、未授权、加载失败和重试可理解。
-4. 作品内创作页与工作概览的数据及错误状态相互独立；原工作台金额、阶段、跟进表与自动刷新完整保留。
+3. 固定入口按新对话 / 作品 / 自动化 / 市场排列，市场之后才有额外插件；作品不含工作概览，个人菜单不含工作台；未安装者无入口。
+4. 额外入口 0 / 1 / 2 / 3 个、首次安装、热加载、更新、停用再启用、卸载重装和应用重启后，顺序与“更多”门槛正确；较小或相同 `order` 不抢占固定入口。展开能打开全部插件，保持原功能与活动状态。
 5. 相同窗口与样例下重新计算完整可见行数；浅色、深色、手机、收起、键盘导航、系统缩放与长中文标题检查。
 6. 实际网页版下载可达，实际 Electron 无下载入口，Mac / Windows 顶部窗口控制与搜索快捷键正常。以上为后续验收清单，本轮只验证静态原型。

diff --git a/crysound/prototypes/sidebar-a/README.md b/crysound/prototypes/sidebar-a/README.md
@@ -13,11 +13,12 @@ python3 -m http.server 8127 --bind 127.0.0.1
 浏览器打开 `http://127.0.0.1:8127/crysound/prototypes/sidebar-a/`；对比页是同目录的 `compare.html`。不需要装依赖、登录或密钥。保留目录关系，原型直接引用 `../../brand/zp-mark.svg` 与小尺寸标志。
 
 - 顶部搜索：点击放大镜，输入“产品”；点结果切到对应示例对话。`Ctrl/Cmd+K` 也可打开，`Esc` 关闭。原型只搜示例标题，正式版应接回现有全文搜索。
-- 四个入口：新对话、市场（小字“插件·技能”）、自动化、作品；作品内可切换“创作成果 / 工作概览”。首页主区域只是交互背景，不是本次首页改版提案。
+- 固定入口按已定顺序排列：新对话、作品、自动化、市场（小字“插件·技能”）。作品页只放创作成果，没有工作概览页签。首页主区域只是交互背景，不是本次首页改版提案。
+- 插件入口在市场之后、最近对话之前。默认一个“我的工作台”，它是个人插件示例，不是同事预装，也不放个人菜单。按示例安装先后排列；1–2 个直接展示，超过 2 个时全部收进“更多”，展开可打开每个插件。
 - 最近对话：点标题打开示例，悬停可见更多操作的占位说明；标题旁的显示选项可改变排序、显示示例归档会话。会话的分组、置顶、归档等正式操作未在原型实现。
 - 个人菜单：网页版有“下载客户端”；右下角“查看方式”切到桌面版后隐藏。设置与下载仅提示目标，不打开实际设置或下载文件。
-- 查看方式：切换深浅色、网页 / 桌面场景、单 / 多工作区。只有多个工作区时出现分组；不修改或保存真实设置。
-- 收起后保留搜索和四个图标入口；手机上点左上角打开导航抽屉，点入口、遮罩、收起或 `Esc` 关闭。抽屉与搜索支持键盘焦点管理。
+- 查看方式：切换深浅色、网页 / 桌面场景、单 / 多工作区，以及 0 / 1 / 2 / 3 个插件入口。链接加 `?plugins=0` 可直接查看无个人插件的同事场景，`?plugins=3` 可直接查看“更多”。只有多个工作区时出现分组；不修改或保存真实设置。
+- 收起后保留搜索、固定入口和插件入口图标；手机上点左上角打开导航抽屉，点入口、遮罩、收起或 `Esc` 关闭。抽屉与搜索支持键盘焦点管理。
 
 全部记录为虚构示例；发送按钮不发消息。不会调用业务接口或写入存储。
 
@@ -25,19 +26,19 @@ python3 -m http.server 8127 --bind 127.0.0.1
 
 | 场景 | 文件 | 看什么 |
 | --- | --- | --- |
-| 浅色 | [light.png](screenshots/light.png) | 四个入口、顶部搜索、直接出现最近对话 |
-| 深色 | [dark.png](screenshots/dark.png) | 品牌色适配、作品内的工作概览 |
+| 浅色 | [light.png](screenshots/light.png) | 已定固定顺序、个人插件示例、顶部搜索与最近对话 |
+| 深色 | [dark.png](screenshots/dark.png) | 品牌色适配、只含创作成果的作品页 |
 | 手机窄屏 | [mobile.png](screenshots/mobile.png) | 390×844，导航抽屉打开状态 |
-| 收起 | [collapsed.png](screenshots/collapsed.png) | 搜索与四个图标入口保留 |
+| 收起 | [collapsed.png](screenshots/collapsed.png) | 搜索、固定入口和个人插件图标保留 |
 | 现在 vs 方案 A | [comparison.png](screenshots/comparison.png) | 同为 720px 高的侧栏，真实现状与原型对照 |
 
 对比图使用的 [现状裁图](screenshots/current-sidebar.png) 来自实际网页版；姓名、头像和对话标题已替换为示例。保持现状的布局、字号、行高和默认展开量。没有公开工作台里的日程、项目内容或个人信息。
 
-在 1440×720、浏览器默认缩放、不滚动列表的条件下，实际现状完整显示 6 条会话（含 1 条空白新会话），原型显示 11 条完整对话，多 5 条。以列表可视区域上下边界计算，部分露出的行不计入；不是在两个产品运行版本上做出的性能或最终验收结论。高度变化时数量会变，正式开发仍需用真实会话和桌面窗口核对。
+在 1440×720、浏览器默认缩放、不滚动列表的条件下，实际现状完整显示 6 条会话（含 1 条空白新会话），默认带一个工作台示例的原型显示 10 条完整对话，多 4 条；切换成没有额外插件的同事场景时显示 11 条，多 5 条。以列表可视区域上下边界计算，部分露出的行不计入；不是在两个产品运行版本上做出的性能或最终验收结论。高度变化时数量会变，正式开发仍需用真实会话和桌面窗口核对。
 
 ## 可行性与自查
 
-详见 [feasibility.md](feasibility.md)。浏览器检查记录在 [verification.json](verification.json)，可用以下命令复跑交互检查并重拍五张图（现状裁图保留为本轮采样，不重新读取线上）：
+详见 [feasibility.md](feasibility.md)。浏览器检查记录在 [verification.json](verification.json)，可用以下命令复跑交互检查并重拍五张图（现状裁图沿用初版采样（当前对照是历史基线，不代表重新拍摄的最新线上），不重新读取线上）：
 
 ```sh
 # Chrome 已开本机远程调试；先创建自己的空白标签页并取得编号。
@@ -48,8 +49,8 @@ CDP_TAB=<自己的标签页编号> node crysound/prototypes/sidebar-a/capture.mj
 
 `CDP_ENDPOINT` 可指定已有浏览器的调试地址，默认 `http://127.0.0.1:9222`。脚本不创建新浏览器、不接管其他标签页、不处理登录；完成后自行关闭专用标签页。本轮沿用手册明确配置的持久浏览器入口，不依赖桌面应用连接。
 
-已检查 JS 语法、实际浏览器交互、截图、资源加载和窄屏溢出。按需求单手册未安装依赖、未跑全仓检查、未打包或建镜像。真实全文搜索、真实会话菜单、个人工作台后端、自动化执行、客户端下载、实际 Electron 应用和正式发布均未验收。
+已检查 JS 语法、实际浏览器交互、截图、资源加载和窄屏溢出。按需求单手册未安装依赖、未跑全仓检查、未打包或建镜像。真实全文搜索、真实会话菜单、真实插件安装与持久排序、自动化执行、客户端下载、实际 Electron 应用和正式发布均未验收。个人工作台后端不在本单范围。
 
 ## 交接
 
-交伙伴助理拿给需求负责人过目：重点确认四个入口和“作品 → 创作成果 / 工作概览”的合并层级。原型保持草稿评审，不打 `deliver`，不请求合入或部署。评审通过后另开正式开发，保留现有功能与权限；原需求单在确认前保持打开。
+交伙伴助理拿给需求负责人过目：按已定顺序查看五图及可点原型，重点过目独立插件入口和“更多”折叠效果；不用再比较方案二。原型保持草稿评审，不打 `deliver`，不请求合入或部署。评审通过后另开正式开发，保留现有功能与权限；原需求单在确认前保持打开。
